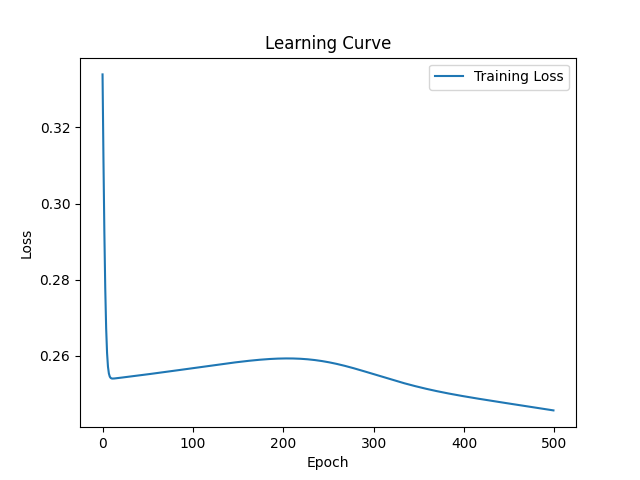
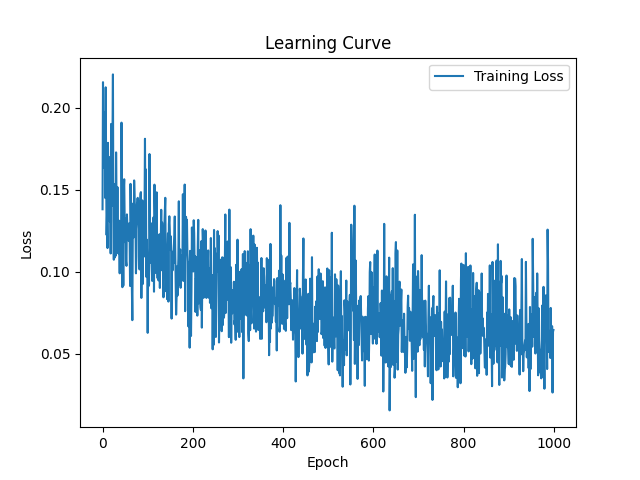
Update model selection

diff --git a/model_selection.py b/model_selection.py
@@ -1,41 +1,50 @@
 import numpy as np
 import copy as cp
-from NN import NeuralNetwork
+from chiara_prova import NeuralNetwork
 
-def k_fold_cross_validation(network, data_X, data_y, hyperparameters, K):
+def k_fold_cross_validation(input_size, hidden_size, data_X, data_y, hyperparams, K):
+    network = None
     best_theta = None
     best_model = None
     best_validation_error = float('inf')
 
-    for theta in hyperparameters:
+    # Cycle for grid search
+    for theta in hyperparams:
         tot_validation_error = 0.0
 
+        # Cycle for K-fold cross validation
         for k in range(K):
-            # Split data into training and validation sets
-            D_k_bar_X, D_k_bar_y, D_k_X, D_k_y = split_data_into_folds(data_X, data_y, K, k)
+            # Split the data into training and validation sets
+            training_X, training_y, validation_X, validation_y = split_data_into_folds(data_X, data_y, K, k)
 
-            # Train the model on the counterpart
-            network = NeuralNetwork()
-            network.train(D_k_bar_X, D_k_bar_y)
+            # Train the model on the training set
+            network = NeuralNetwork(input_size, hidden_size, **theta) # TODO: aggiungi iperparametri
+            network.train(training_X, training_y)
 
-            # Estimate risk on the validation part
-            validation_error = network.evaluate(D_k_X, D_k_y)
+            # Evaluate the model on the validation set
+            validation_error = network.evaluate(validation_X, validation_y)
+            """
+            def evaluate(self, inputs, targets):
+                _, predictions = self.forward_propagation(inputs)
+                mee = np.mean(np.sqrt((targets - predictions)**2))
+                # oppure np.sqrt(np.mean((targets - predictions)**2))
+                # oppure np.mean(np.sqrt(np.sum((targets - predictions)**2, axis=1)))
+                return mee
+            """
 
             tot_validation_error += validation_error
 
-            # Reset the model
-            network = NeuralNetwork()
-
-        # Global estimation of the risk
+        # Compute the average validation error
         avg_validation_error = tot_validation_error / K
 
-        # Update best hyperparameter if the current one is better
+        # Update best hyperparameter and best model if the current ones are better
         if avg_validation_error < best_validation_error:
             best_validation_error = avg_validation_error
             best_theta = theta
-            #best_model = network.copy_model()
+            best_model = cp.copy(network)
 
     return best_theta, best_model
+
 
 def split_data_into_folds(data_X, data_y, K, k):
     """
@@ -48,63 +57,67 @@ def split_data_into_folds(data_X, data_y, K, k):
 
     :return: the training and validation sets
     """
+
+    # Compute the size of each fold
     n_samples = len(data_X)
     fold_size = n_samples // K
 
+    # Compute the start and end indices of the k-th fold
     start = k * fold_size
     end = (k + 1) * fold_size if k != K - 1 else n_samples # last fold can be bigger
 
-    # Select the k-th fold as validation set
-    val_data_X = data_X[start:end]
-    val_data_y = data_y[start:end]
+    # Use the k-th fold as validation set
+    validation_X = data_X[start:end]
+    validation_y = data_y[start:end]
 
-    # Use the rest as training set
-    train_data_X = np.concatenate([data_X[:start], data_X[end:]])
-    train_data_y = np.concatenate([data_y[:start], data_y[end:]])
+    # Use the rest of the data as training set
+    training_X = np.concatenate([data_X[:start], data_X[end:]])
+    training_y = np.concatenate([data_y[:start], data_y[end:]])
 
-    return train_data_X, train_data_y, val_data_X, val_data_y
+    return training_X, training_y, validation_X, validation_y
 
-def model_selection(network, data, hyperparameters, K):
-    # Select the best hyperparameters using K-fold cross validation
-    best_theta, best_model = k_fold_cross_validation(data, hyperparameters, K)
+
+def model_selection(input_size, hidden_size, data_X, data_y, hyperparameters, K):
+    """
+    Select the final model using K-fold cross validation
+
+    :param data_X: the input data
+    :param data_y: the target data
+    :param hyperparameters: the hyperparameters to use for grid search
+    :param K: number of folds
+
+    :return: the final model
+    """
+
+    # Select the best hyperparameters and best model using K-fold cross validation
+    best_theta, best_model = k_fold_cross_validation(input_size, hidden_size, data_X, data_y, hyperparameters, K)
 
     # Train the model on the whole training set using the best hyperparameters
-    network.NeuralNetwork(best_theta)
-    final_model = network.train(best_theta, data)
+    best_model.train(data_X, data_y)
+    # oppure
+    #best_model = NeuralNetwork(best_theta)
+    #best_model.train(data_X, data_y)
+    final_model = cp.copy(best_model)
 
-    return final_model # or "return network"
+    return final_model
 
+
+# DA SPOSTARE
 def model_assessment(final_model, test_data):
     # Return the test error
     pass
 
+
 """
-DA METTE DENTRO NeuralNetwork
-def copy_model(self):
-    # Crea una nuova istanza del modello
-    new_model = NeuralNetwork(self.input_size, self.hidden_size, self.output_size)
-
-    # Copia i parametri del modello corrente nel nuovo modello
-    # Questo può variare a seconda della struttura del tuo modello
-    new_model.weights_input_hidden = np.copy(self.weights_input_hidden)
-    new_model.weights_hidden_output = np.copy(self.weights_hidden_output)
-    new_model.bias_hidden = np.copy(self.bias_hidden)
-    new_model.bias_output = np.copy(self.bias_output)
-
-    # Altri parametri da copiare, se necessario
-
-    return new_model
-"""
-
-
-hyperparameters = ...
+hyperparams = ...
 data = ...
 K = ...
 test_data = ...
 
 # Train the model on the training set and select the best model
-best_model = model_selection(data, hyperparameters, K)
+best_model = model_selection(data, hyperparams, K)
 
 # Assess the performance of the best model on the test set
 test_error = model_assessment(best_model, test_data)
 print(f"Final Test Error: {test_error}")
+"""

diff --git a/prova_nico.py b/prova_nico.py
@@ -1,8 +1,9 @@
 import pandas as pd
 import numpy as np
-from NN import NeuralNetwork
+from chiara_prova import NeuralNetwork
 from Layer import Layer
 from preprocessing import Preprocessing
+from model_selection import *
 
 """
 # Specified the paths to your training and test files
@@ -25,7 +26,31 @@ nn = NeuralNetwork()
 # Add layers to the neural network
 nn.add_layer(input_size, hidden_size, "sigmoid") # hidden layer
 nn.add_layer(hidden_size, output_size, "tanh") # output layer
-"""
 
 # Train the neural network with Stochastic Gradient Descent (SGD)
 nn.train(input_data, targets, epochs=1000, learning_rate=0.01, momentum=0.9, weight_decay=0.01)
+"""
+
+
+percorso_file_train_1 = './monk+s+problems/monks-1.train'
+percorso_file_train_2 = './monk+s+problems/monks-2.train'
+percorso_file_train_3 = './monk+s+problems/monks-3.train'
+
+data_X, data_y = Preprocessing.preprocessing(percorso_file_train_1)
+
+print("Monk-shape: ", data_X.shape)
+print("Targets-shape: ", data_y.shape)
+
+input_size = data_X.shape[1]
+hidden_size = 3
+
+hyperparams = [
+    {'learning_rate': 0.1, 'epochs': 1000, 'batch_size': 32, 'momentum': 0.9, 'lambda_reg': 0.01}
+]
+
+# Train the model on the training set and select the best model
+best_model = model_selection(input_size, hidden_size, data_X, data_y, hyperparams, K=5)
+
+# Assess the performance of the best model on the test set
+#test_error = model_assessment(best_model, test_data)
+#print(f"Final Test Error: {test_error}")

diff --git a/chiara_prova.py b/chiara_prova.py
@@ -107,6 +107,7 @@ class NeuralNetwork:
         plt.savefig('learning_curve.png')  
         plt.close()
     
+    
     def cross_validate(self, X, y, test_size=0.2):
         X_train, X_val, y_train, y_val = train_test_split(X, y, test_size=test_size, random_state=42)
         train_losses, val_losses, accuracies = [], [], []
@@ -162,7 +163,8 @@ class NeuralNetwork:
         
 
         return val_losses[-1], accuracies[-1]
-
+        
+    
     def predict(self, X):
         _, output = self.forward_propagation(X)
         return np.round(output)
